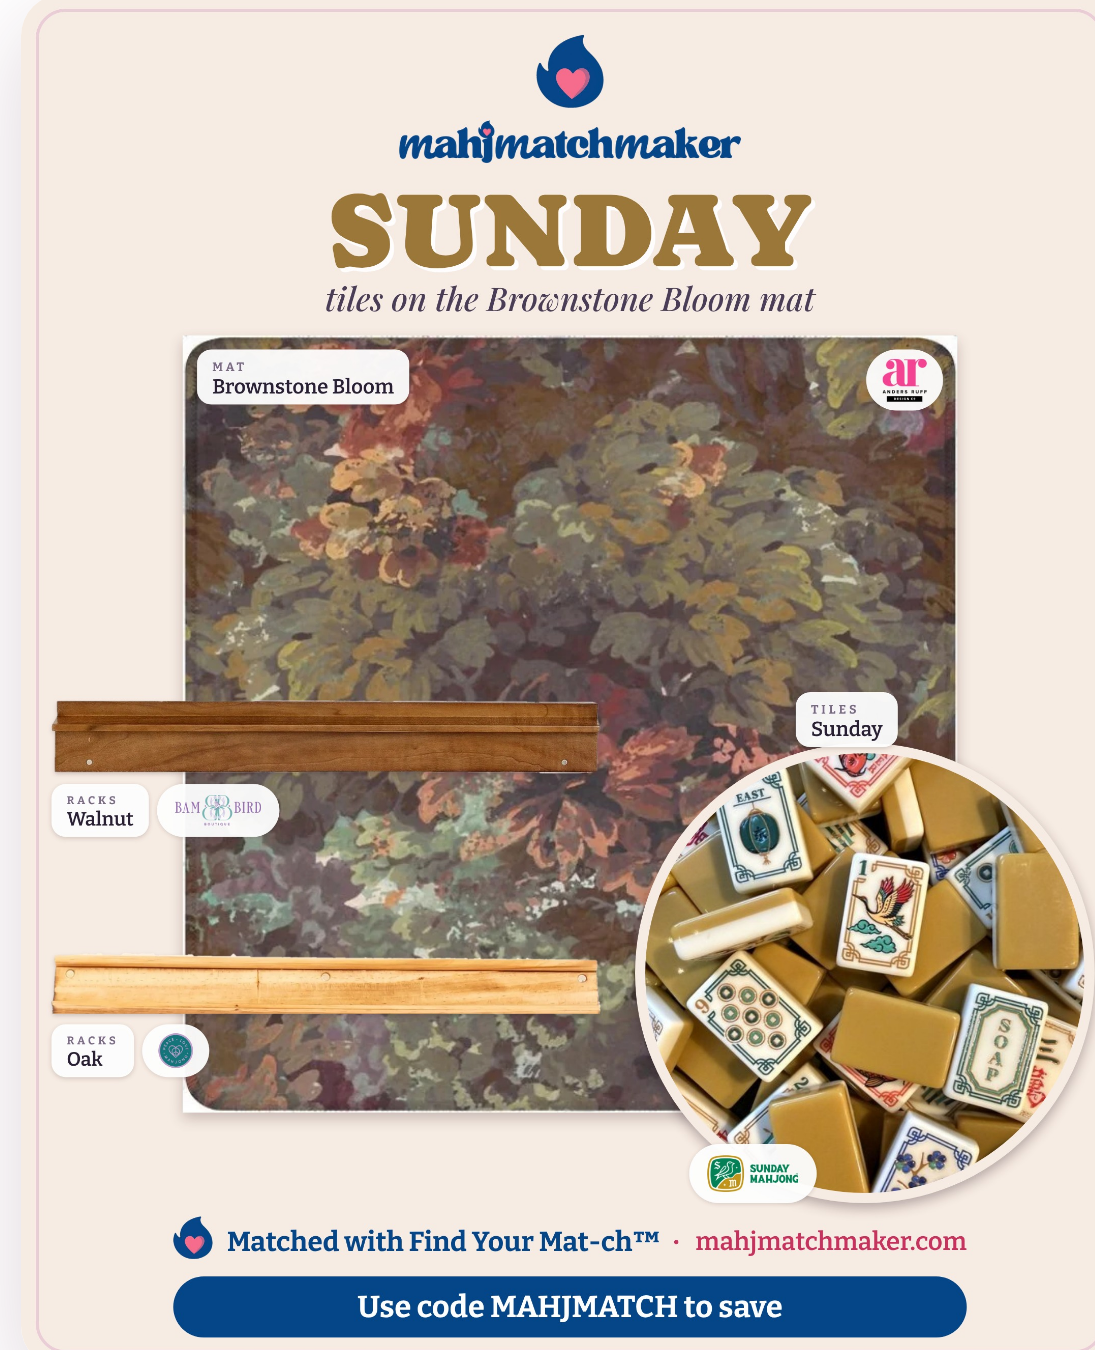
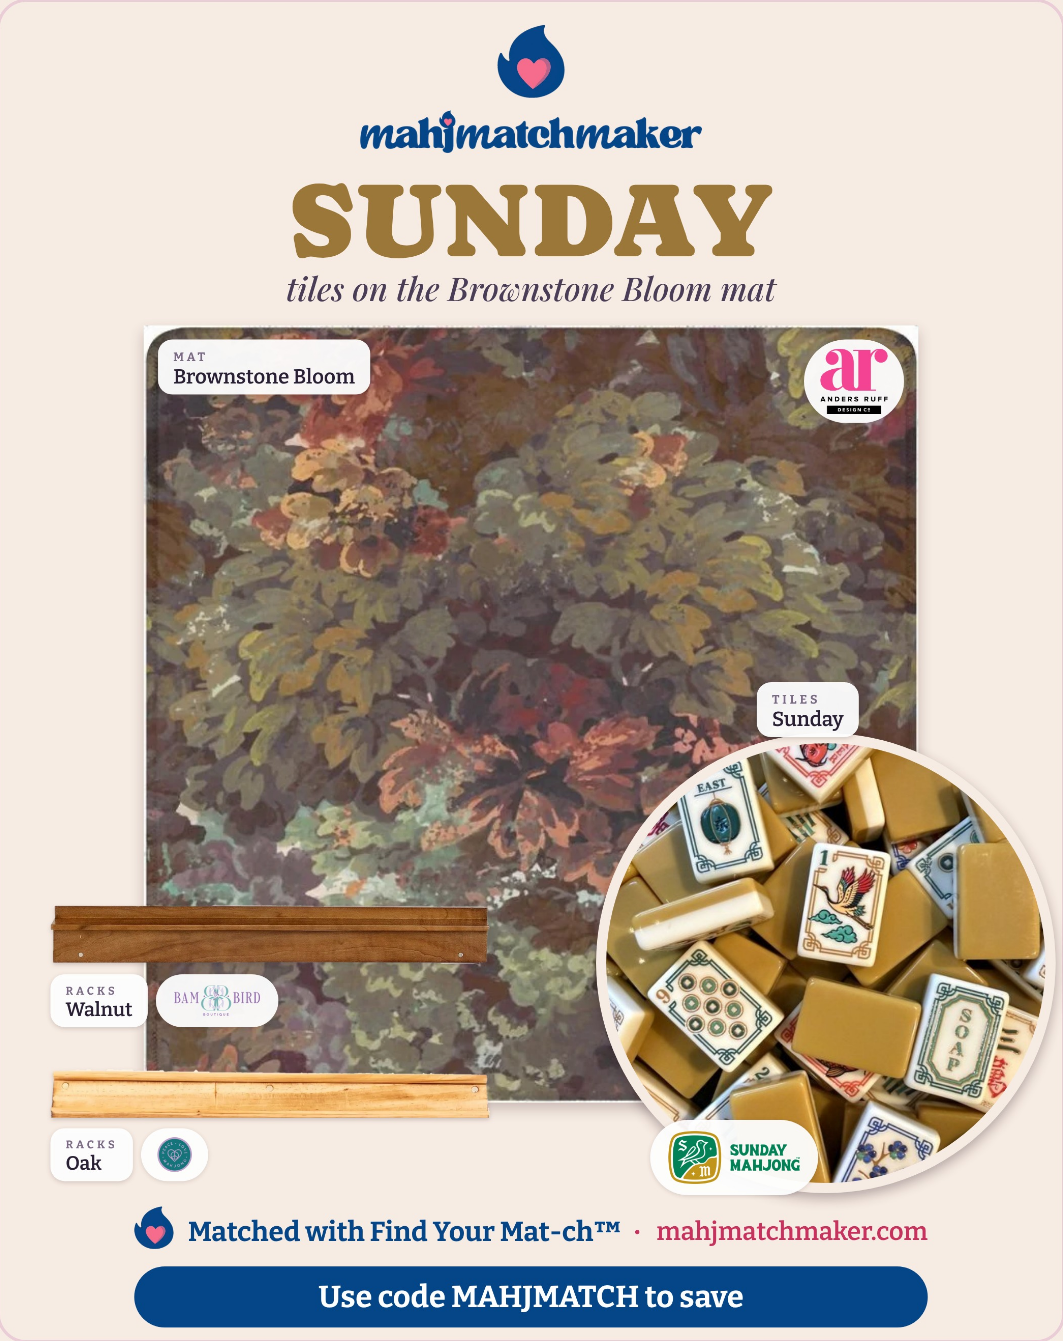
Reel v5: clean-title Sunday card, shop shows No code under Sunday; MATCH-INBOX no-code check
Claude-Session: https://claude.ai/code/session_01QxwYQtmWcAr4s5uYJYP3mA

diff --git a/docs/ANSWERS.md b/docs/ANSWERS.md
@@ -527,3 +527,4 @@ Tiffany: tabletop room images look AI, don't want them. Use the clean flat/aeria
 - 2026-10-27 9:01-9:04am Tiffany: launch REEL switches to a cross-brand match: Sunday Mahjong "Sunday" (butterscotch) tiles on the Anders Ruff Brownstone Bloom mat (my rec, she went with it), racks Bam Bird Boutique Walnut + Peace Love Mahjong Oak = 4 brands on one card. ✕ swipe = a floral (Chinoiserie Songbird, Mahj & Vine). Opener: just "The ever-burning question." (no "Presenting"), real mat photo not a circle. Tutorial CAROUSEL stays all-Brownstone.
 - Oct 27 8:58-8:59am · Tiffany saw the OLD outlined title on the live site 1h before launch ("how about a note sitting here waiting for me"). RULE: when a publish/paste fails, MESSAGE HER right away (SendUserMessage), not only DESK. 9:05am: Version 1.5 pasted + verified live on /find-your-match and preview. Mat Gallery paste pending (computer dropped).
 - 2026-10-27 9:21-9:24am Tiffany: match card in reel must show FULL (no zoom, not edge to edge); "matchmaker" headline needs breathing room. She's using the CALM cut, synced to "Dancing On My Own": reel must be 58s, nothing before 0:31 changes (first ♥ at 27.7s = "watching you kiss her"); extra time goes after 0:31. Fast cut optional, she may try it.
+- 2026-10-27 9:25am Tiffany: shop screen in the reel must show "no code" under Sunday Mahjong. Match card in the reel must NOT have the outline-text title (live 1.4/1.5 still has it until Matches & Catalog's update lands): card rendered with the clean-title pk shot.py path, shop row given the v100 "No code available at this time" line. Logged to MATCH-INBOX for the live app.

diff --git a/docs/MATCH-INBOX.md b/docs/MATCH-INBOX.md
@@ -56,3 +56,4 @@ Format: `- [date time] [who spotted] ITEM · why · fix wanted`
 - Oct 26 5:49pm white bands → FIXED in v97 (Version 1.1), PUBLISHED Oct 26 ~7:05pm (build + gate PASS Oct 26 ~6:25pm; needs independent QA + publish to both places) for 22 mats: Amahj Blue, Citron + Lilac uses Main's flattened photo; 21 flat white margins trimmed (config/fym-mat-white-oct26.json, v97_matwhite.py, colours re-measured). Gate [89] fails on a flat margin >= 6%; 38 angled shots listed as a warning (OPEN above).
 - Oct 26 (Tiffany) mat-door Add racks parity → FIXED in v97 (Version 1.1), PUBLISHED Oct 26 ~7:05pm (build + gate PASS Oct 26 ~6:25pm; needs independent QA + publish to both places): 'Add racks ›' under the chosen suitor tile set + tapping the chosen tile set = Add racks. Gate [84].
 - Oct 26 gallery sync gate → ADDED in v97 (Version 1.1), PUBLISHED Oct 26 ~7:05pm (build + gate PASS Oct 26 ~6:25pm; needs independent QA + publish to both places): gate [90] warns per visible FYM mat without a Mat Gallery row (OPEN above).
+- 2026-10-27 9:25am (Main, from Tiffany): Shop page must show "No code available at this time" under every non-partner brand (e.g. Sunday Mahjong) on the LIVE app. v95 shows nothing under Sunday; v100 has the `ncn` line. Confirm it's in the version going live now (1.5) and that Sunday/Ozark/Tala etc. carry the flag.
